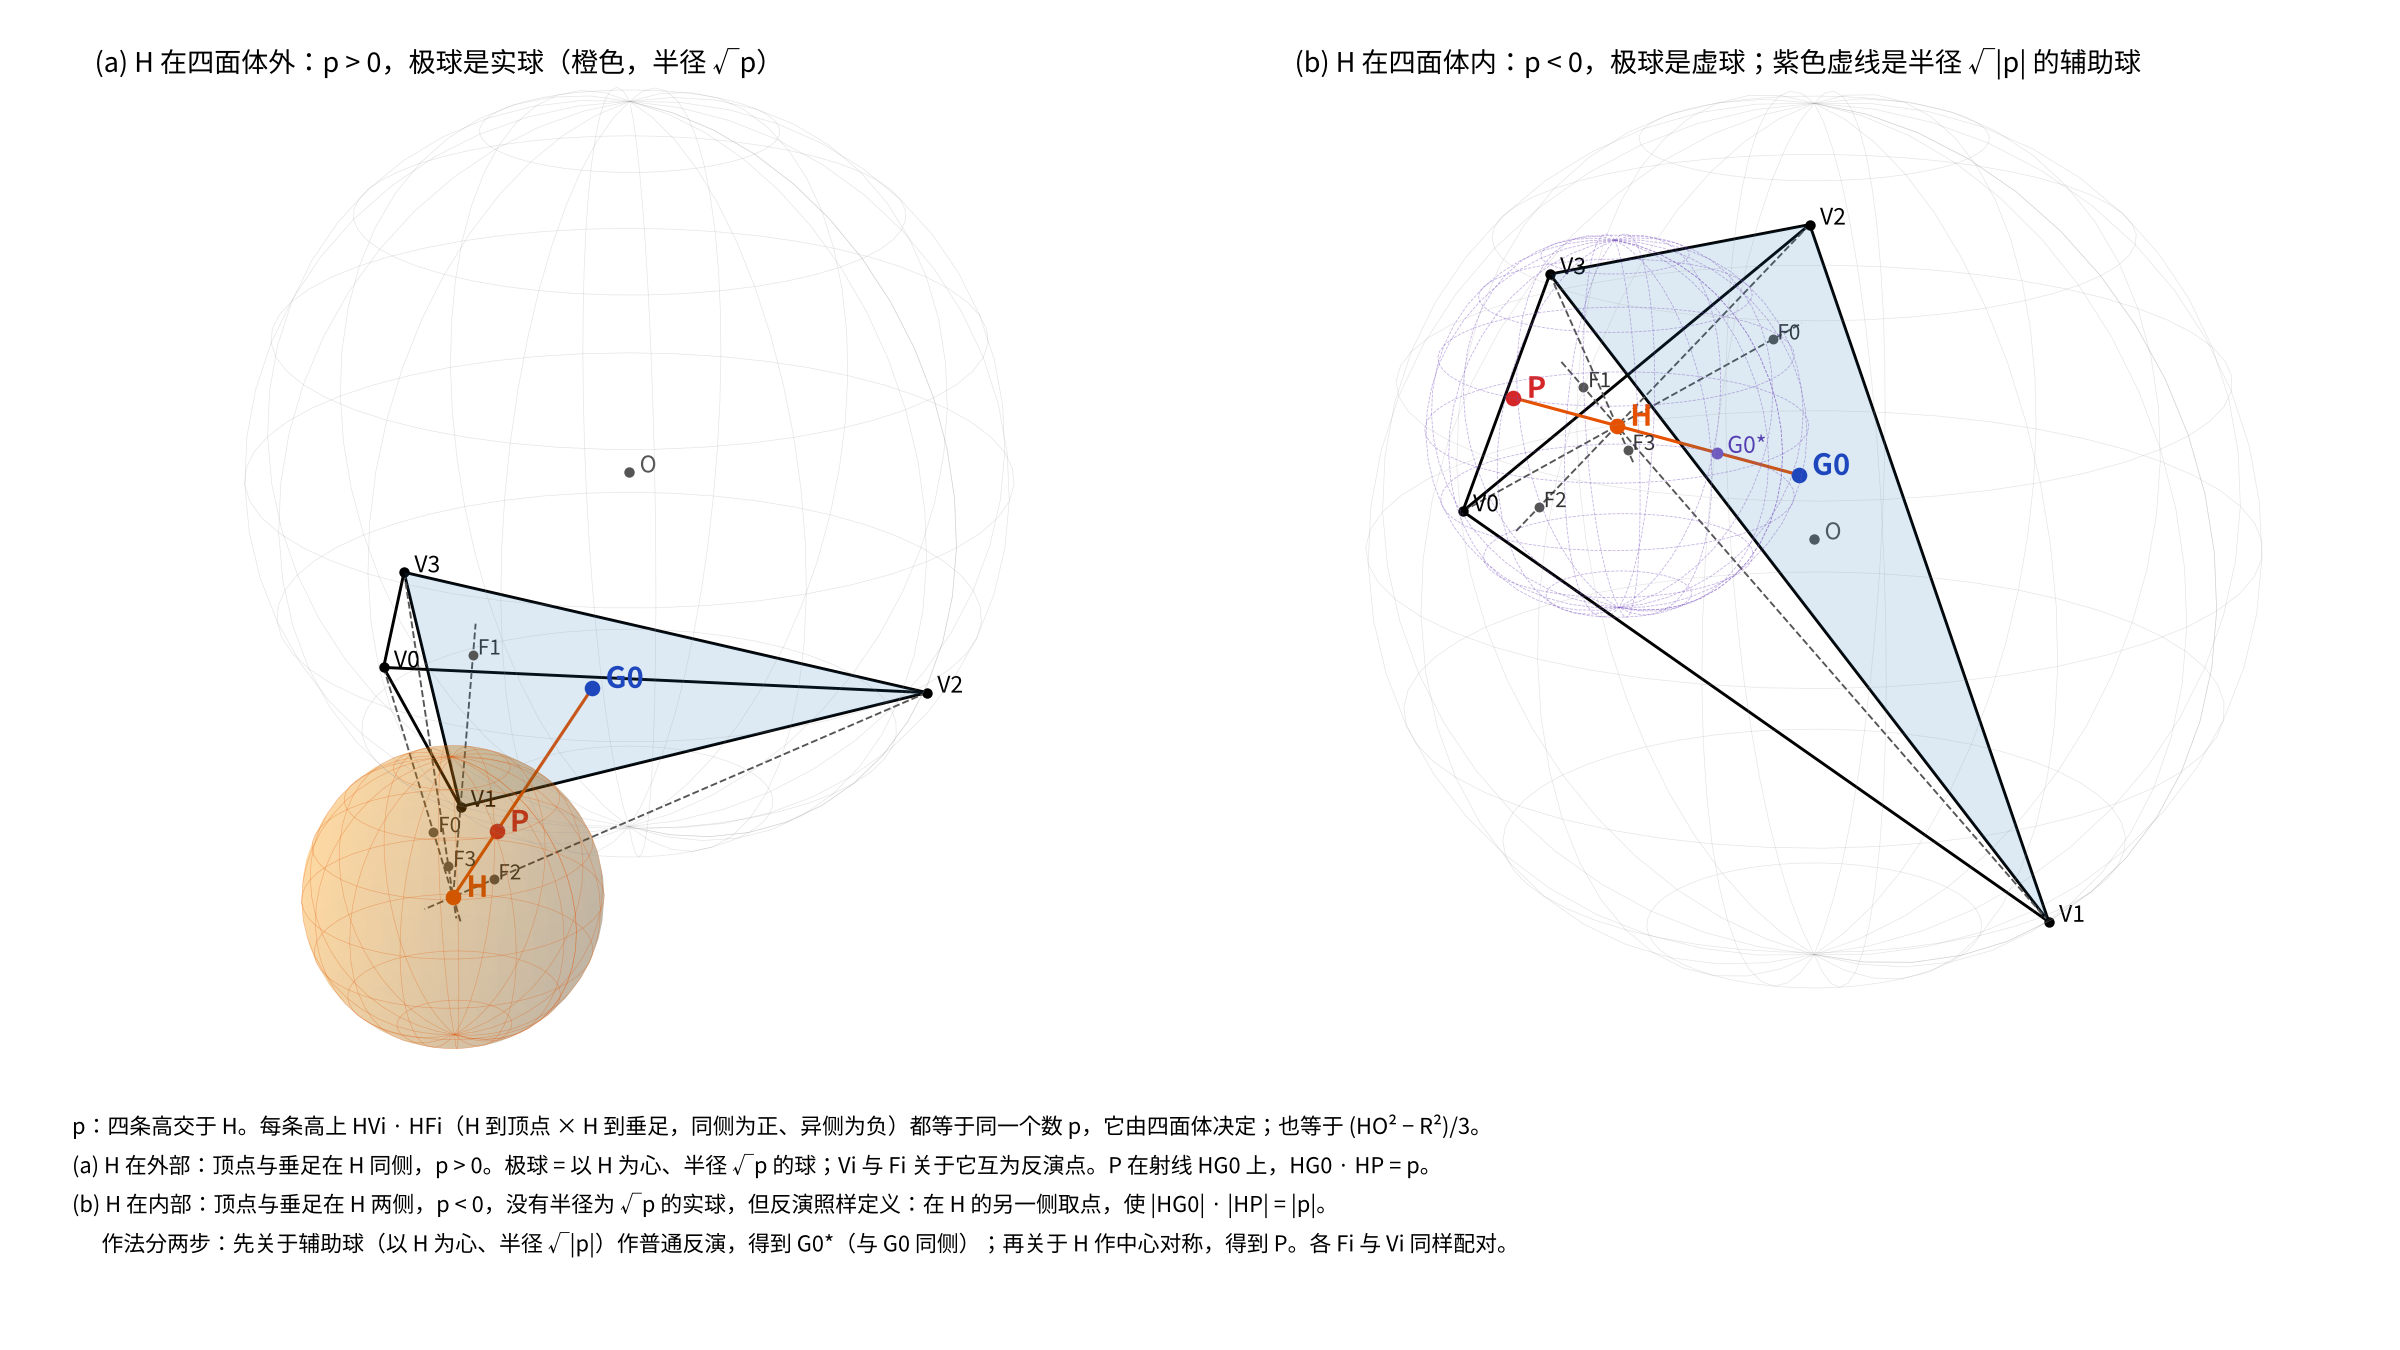
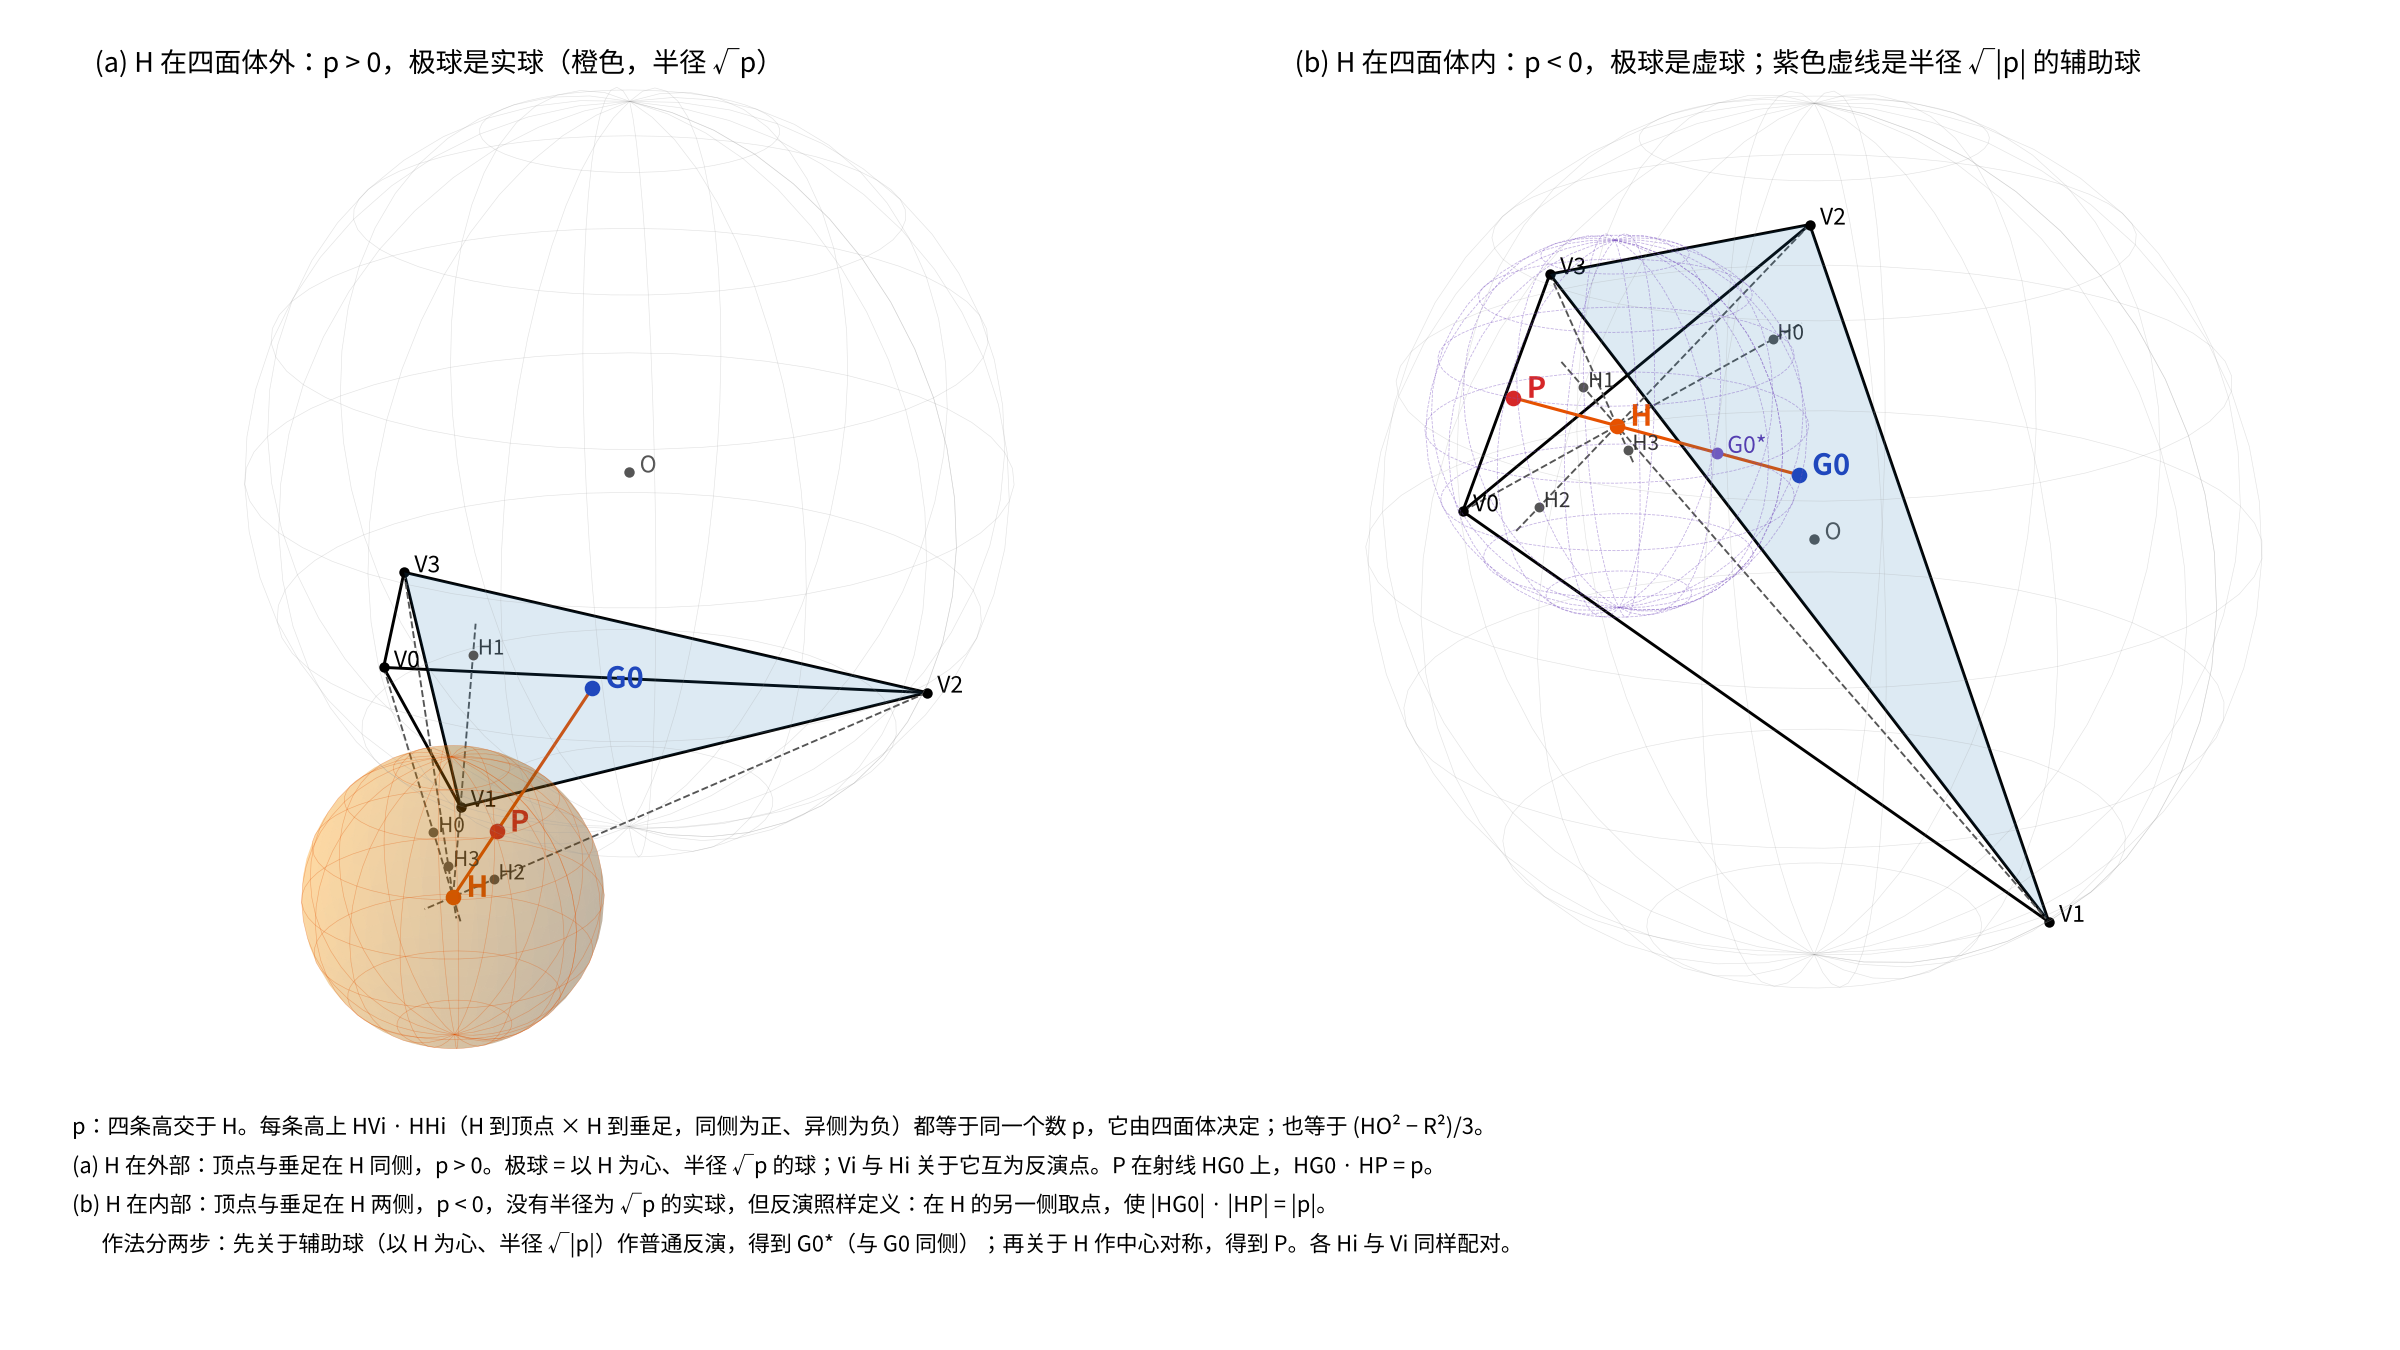
docs: 四面体的高足统一记作 H_i，F 只留给面内垂足；P 点示意图改标 H0–H3

Changed region(s): [[0.1875, 0.8089, 0.625, 0.8711], [0.5625, 0.9022, 0.625, 0.9333], [0.1875, 0.6222, 0.2188, 0.6533]]

diff --git a/docs/垂心四面体六条定理.md b/docs/垂心四面体六条定理.md
@@ -13,15 +13,15 @@
 | 五 | 七线共点 | 共线、共圆扫描 |
 | 六 | Fermat 点的一条直线 | 共线扫描 |
 
-<b>记号</b>：垂心四面体 V0V1V2V3，三对对棱互相垂直，四条高交于垂心 H（在垂心四面体里 Monge 点就是 H）。外接球球心 O、半径 R，重心 G。顶点 V_i 对面的那个面记作面 i，它的外心、垂心、重心记作 O_i、H_i、G_i；高足 F_i 就是面 i 的垂心 H_i。
+<b>记号</b>：垂心四面体 V0V1V2V3，三对对棱互相垂直，四条高交于垂心 H（在垂心四面体里 Monge 点就是 H）。外接球球心 O、半径 R，重心 G。顶点 V_i 对面的那个面记作面 i，它的外心、垂心、重心记作 O_i、H_i、G_i；从 V_i 出发的高的垂足就是面 i 的垂心 H_i，下文直接称它为高足 H_i（F 留给十三点球里面内三条高的垂足）。
 
 <b>极球</b>：H 到顶点与 H 到对应垂足的向量内积，对四个顶点同为一个常数
 
-> p = HV_i · HF_i
+> p = HV_i · HH_i
 
 以 H 为中心、p 为幂的反演叫极球反演，记作 ψ。H 在四面体内部时 p < 0，极球是虚球，反演照样有定义。ψ 把顶点送到垂足，把十二点球送到外接球；H 关于外接球的幂是 3p，关于棱中点球（球心 G，过 6 个棱中点和 6 个公垂线垂足）的幂是 p。
 
-<b>代数</b>：把 H 放在原点，记 v_i = HV_i，则 v_i·v_j = p（i ≠ j）。令 a_i = |v_i|² − p（= V_iH · V_iF_i），则
+<b>代数</b>：把 H 放在原点，记 v_i = HV_i，则 v_i·v_j = p（i ≠ j）。令 a_i = |v_i|² − p（= V_iH · V_iH_i），则
 
 > p = −1 / Σ(1/a_i)，　H 的重心坐标 ∝ 1/a_i，　G ∝ 1，　O = 2G − H，
 > 棱长平方 d_ij² = a_i + a_j，　4S_i² = 其余三个 a 的两两乘积之和。
@@ -70,7 +70,7 @@ M、F、E 这 9 个点就是对面那个三角形的九点圆，和 V0 一起把
 
 <img src="../pics/13_point_sphere/polar_sphere_P.png" alt="极球反演与 P 点：H 在四面体外（p > 0）与在四面体内（p < 0）两种情形" width="900">
 
-图：P = ψ(G0) 的作法。四条高交于 H，每条高上 HV_i · HF_i 都等于同一个数 p（这张图里的 F0–F3 是<b>四面体的高足</b>，即各面的垂心，不是上表中面内的垂足 F1–F3）。(a) H 在四面体外，p > 0，极球是以 H 为心、半径 √p 的实球（橙色），P 在射线 HG0 上，HG0 · HP = p。(b) H 在四面体内，p < 0，极球是虚球；先关于半径 √|p| 的辅助球（紫色虚线）作普通反演得到 G0*，再关于 H 作中心对称得到 P，所以 P 落在 H 的另一侧。上面十三点球的插图属于情形 (b)。
+图：P = ψ(G0) 的作法。四条高交于 H，每条高上 HV_i · HH_i 都等于同一个数 p（H0–H3 是四面体的四个高足，即各面的垂心）。(a) H 在四面体外，p > 0，极球是以 H 为心、半径 √p 的实球（橙色），P 在射线 HG0 上，HG0 · HP = p。(b) H 在四面体内，p < 0，极球是虚球；先关于半径 √|p| 的辅助球（紫色虚线）作普通反演得到 G0*，再关于 H 作中心对称得到 P，所以 P 落在 H 的另一侧。上面十三点球的插图属于情形 (b)。
 
 ### 和经典的 24 点球是什么关系
 
